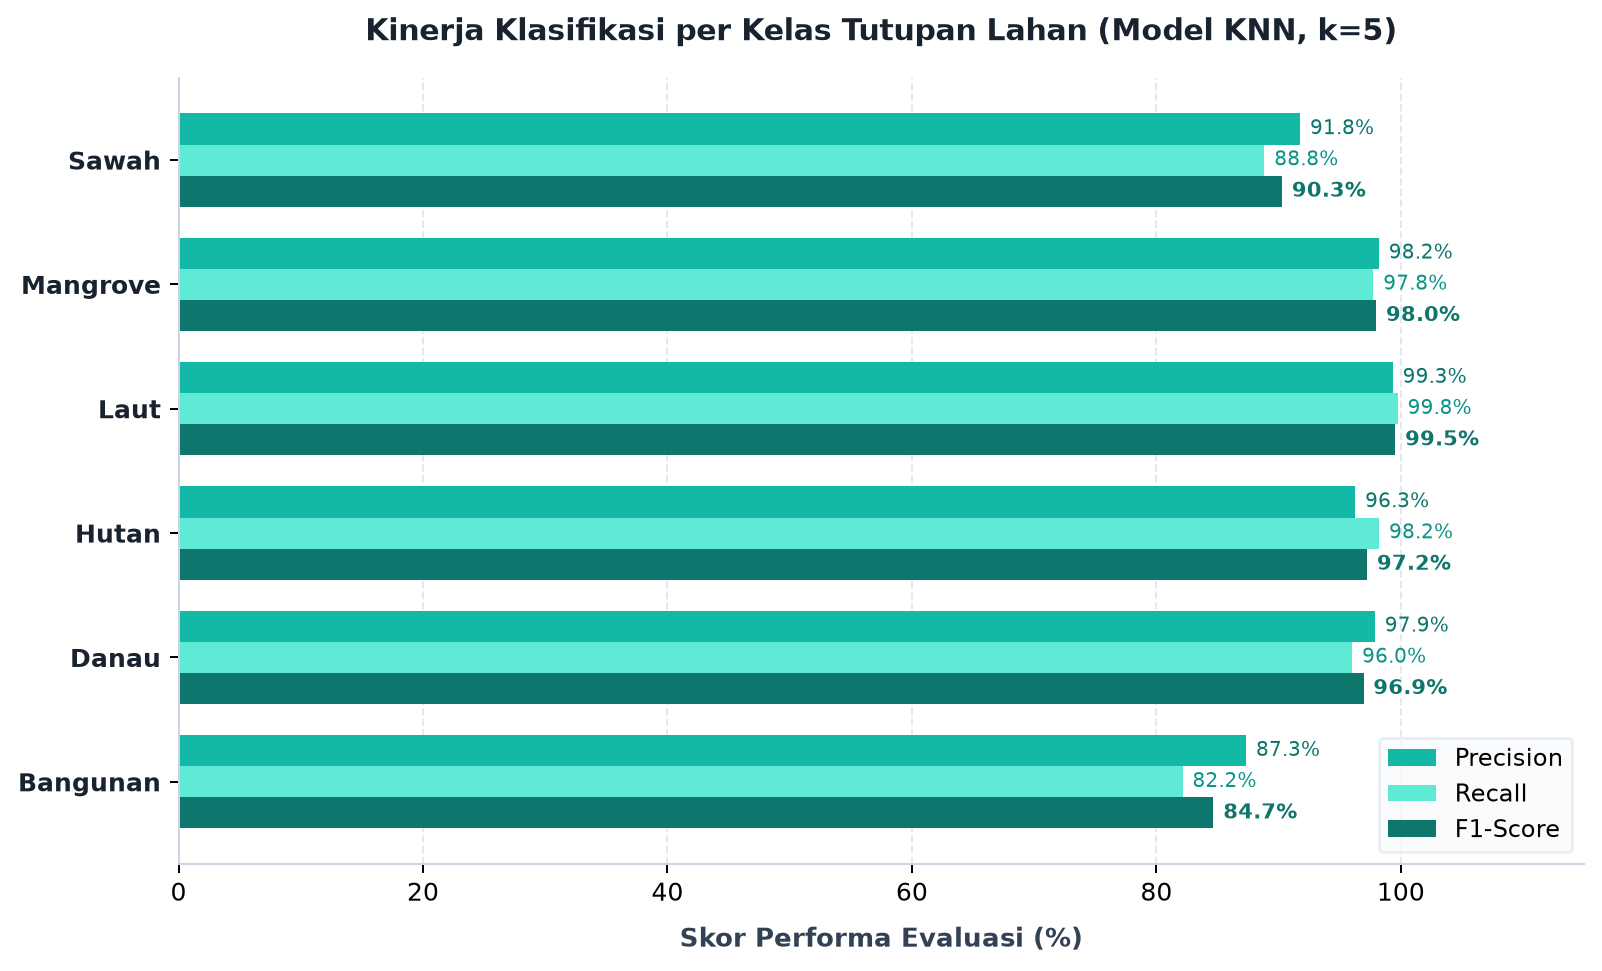
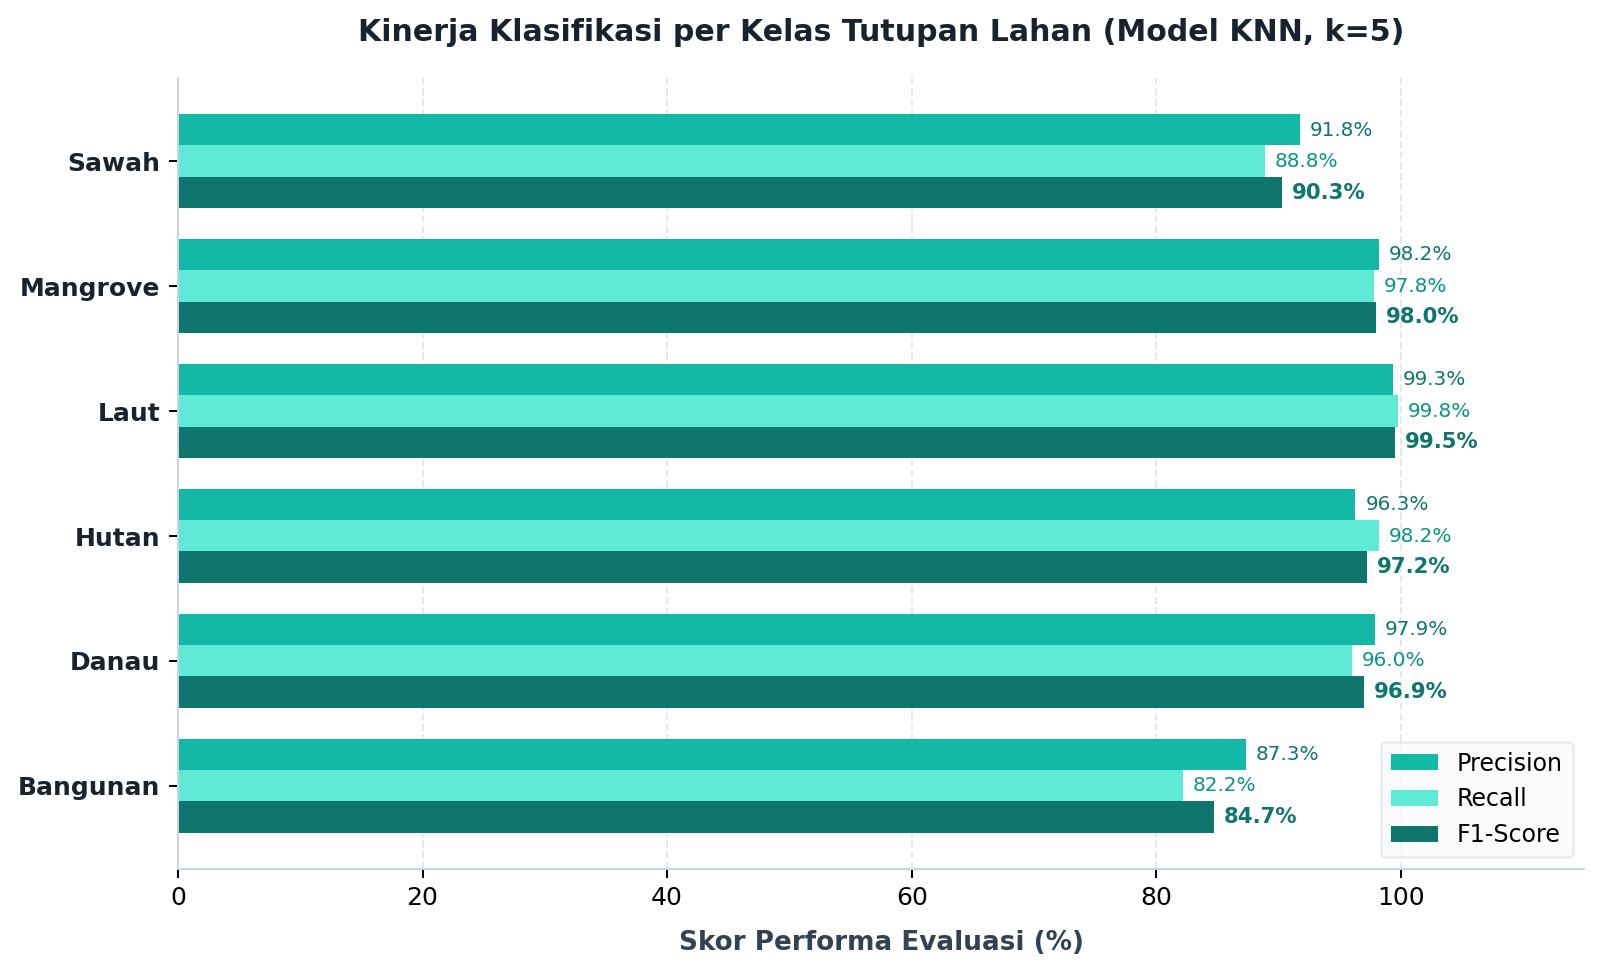
feat: add spatial coordinate merging and custom column filtering for spatial classification predictions in Streamlit app

diff --git a/streamlit_app.py b/streamlit_app.py
@@ -247,6 +247,8 @@ def cari_file(nama_file: str) -> Path | None:
         Path("data/Klasifikasi") / nama_file,
         Path("views/klasifikasi-spasial") / nama_file,
         Path("data/Klasifikasi/hasil_rf") / nama_file,
+        Path("data/Klasifikasi/hasil_rf_piksel") / nama_file,
+        Path("data/Klasifikasi/land") / nama_file,
         Path("hasil_rf") / nama_file,
         Path("_static") / nama_file,
     ]
@@ -391,6 +393,22 @@ st.markdown(f"""
 # Muat Data Evaluasi
 p_pred = cari_file("prediksi_data_uji.csv")
 df_pred = muat_data_csv(str(p_pred)) if p_pred else None
+
+# Gabungkan koordinat centroid (latitude/langitude & longitude) ke df_pred jika belum tersedia
+if df_pred is not None and ("latitude" not in df_pred.columns or "longitude" not in df_pred.columns):
+    p_cen = cari_file("centroid_poligon.csv")
+    if p_cen:
+        df_cen = muat_data_csv(str(p_cen))
+        if df_cen is not None and "poligon_id" in df_cen.columns:
+            lat_col = "lat_centroid" if "lat_centroid" in df_cen.columns else ("lat" if "lat" in df_cen.columns else None)
+            lon_col = "lon_centroid" if "lon_centroid" in df_cen.columns else ("lon" if "lon" in df_cen.columns else None)
+            if lat_col and lon_col:
+                coords = df_cen[["poligon_id", lat_col, lon_col]].drop_duplicates("poligon_id")
+                coords = coords.rename(columns={lat_col: "latitude", lon_col: "longitude"})
+                for col_name in ["latitude", "longitude"]:
+                    if col_name in df_pred.columns:
+                        df_pred = df_pred.drop(columns=[col_name])
+                df_pred = df_pred.merge(coords, on="poligon_id", how="left")
 
 if df_pred is not None:
     n_uji = len(df_pred)
@@ -625,6 +643,10 @@ if df_pred is not None:
         df_tampil = df_tampil[df_tampil["benar"] == True]
     elif status_filter == "Hanya Salah Klasifikasi":
         df_tampil = df_tampil[df_tampil["benar"] == False]
+
+    # Tampilkan kolom poligon_id, latitude, longitude, kelas_asli, dan kelas_prediksi
+    kolom_tampil = [col for col in ["poligon_id", "latitude", "longitude", "kelas_asli", "kelas_prediksi"] if col in df_tampil.columns]
+    df_tampil = df_tampil[kolom_tampil]
 
     st.markdown(
         f"<p style='font-size:0.8rem; color:#475569; margin:0.5rem 0 0.75rem 0;'>"
